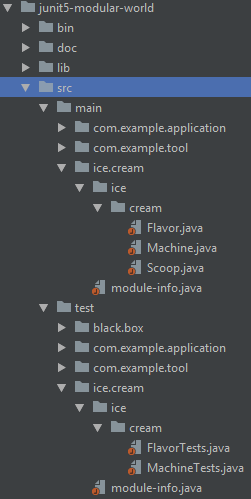
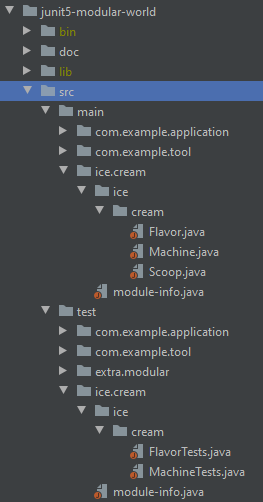
Use more precise term for extra-modular testing

Changed region(s): [[0.0, 0.0, 1.0, 1.0], [0.0, 0.0, 0.0558, 0.0301]]

diff --git a/junit5-modular-world/src/test/extra.modular/extra/modular/ExtraModularTests.java b/junit5-modular-world/src/test/extra.modular/extra/modular/ExtraModularTests.java
@@ -17,8 +17,8 @@ import com.example.tool.*;
 import org.junit.jupiter.api.*;
 import org.junit.jupiter.api.condition.*;
 
-@DisplayName("black.box/black.box.BlackBoxTests")
-class BlackBoxTests {
+@DisplayName("extra.modular/extra.modular.ExtraModularTests")
+class ExtraModularTests {
 
 	@Test
 	void packageName() {

diff --git a/junit5-modular-world/src/test/extra.modular/module-info.java b/junit5-modular-world/src/test/extra.modular/module-info.java
@@ -8,7 +8,7 @@
  * http://www.eclipse.org/legal/epl-v20.html
  */
 
-open module black.box {
+open module extra.modular {
 	//
 	// modules under test
 	//

diff --git a/junit5-modular-world/README.md b/junit5-modular-world/README.md
@@ -14,7 +14,7 @@ please consult the [User Guide](http://junit.org/junit5/docs/current/user-guide/
 This project hosts three main modules with their associated test modules.
 Their names are `com.example.application`, `com.example.tool` and `ice.cream`.
 
-In addition to the main modules there's a test module named `black.box`.
+In addition to the main modules there's a test module named `extra.modular`.
 It tests the exported packages and types of the main modules.
 
 ![junit5-modular-world/src](doc/screenshot-src.png)
@@ -81,10 +81,10 @@ Compiling and running tests is achieved by calling the following test scripts:
 │              checks = `1000`
 │              seed = `-3387297467304298077`
 ├─ JUnit Vintage ✔
-│  └─ black.box.GoodOldTest ✔
+│  └─ extra.modular.GoodOldTest ✔
 │     └─ eighteenEqualsNineAndNine ✔
 ├─ JUnit Jupiter ✔
-│  ├─ black.box/black.box.BlackBoxTests ✔
+│  ├─ extra.modular/extra.modular.ExtraModularTests ✔
 │  │  ├─ moduleName() ✔
 │  │  ├─ add(RepetitionInfo) ✔
 │  │  │  ├─ 1 + 5 ✔
